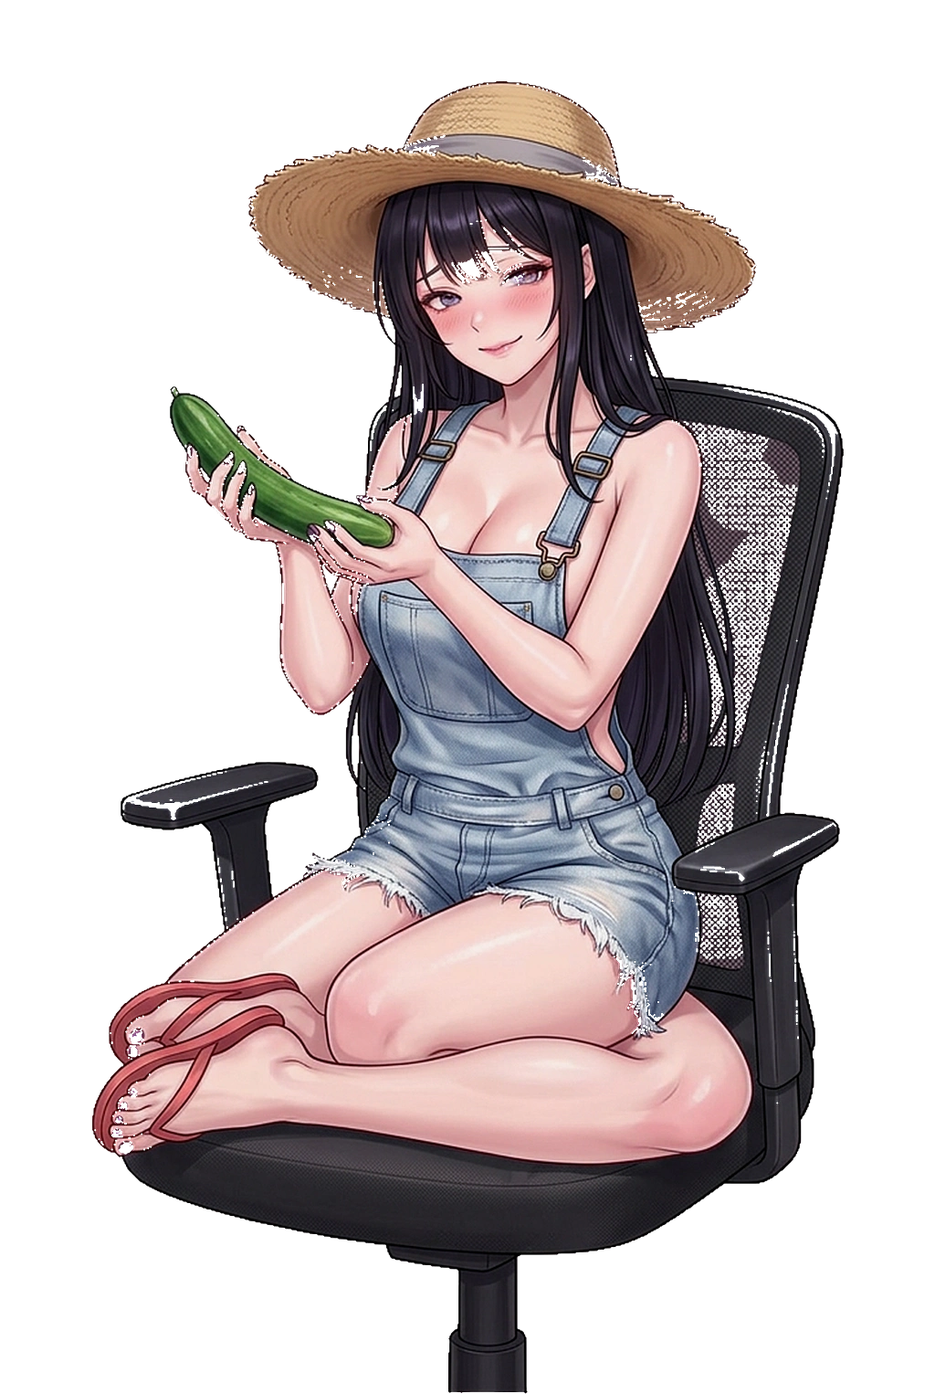
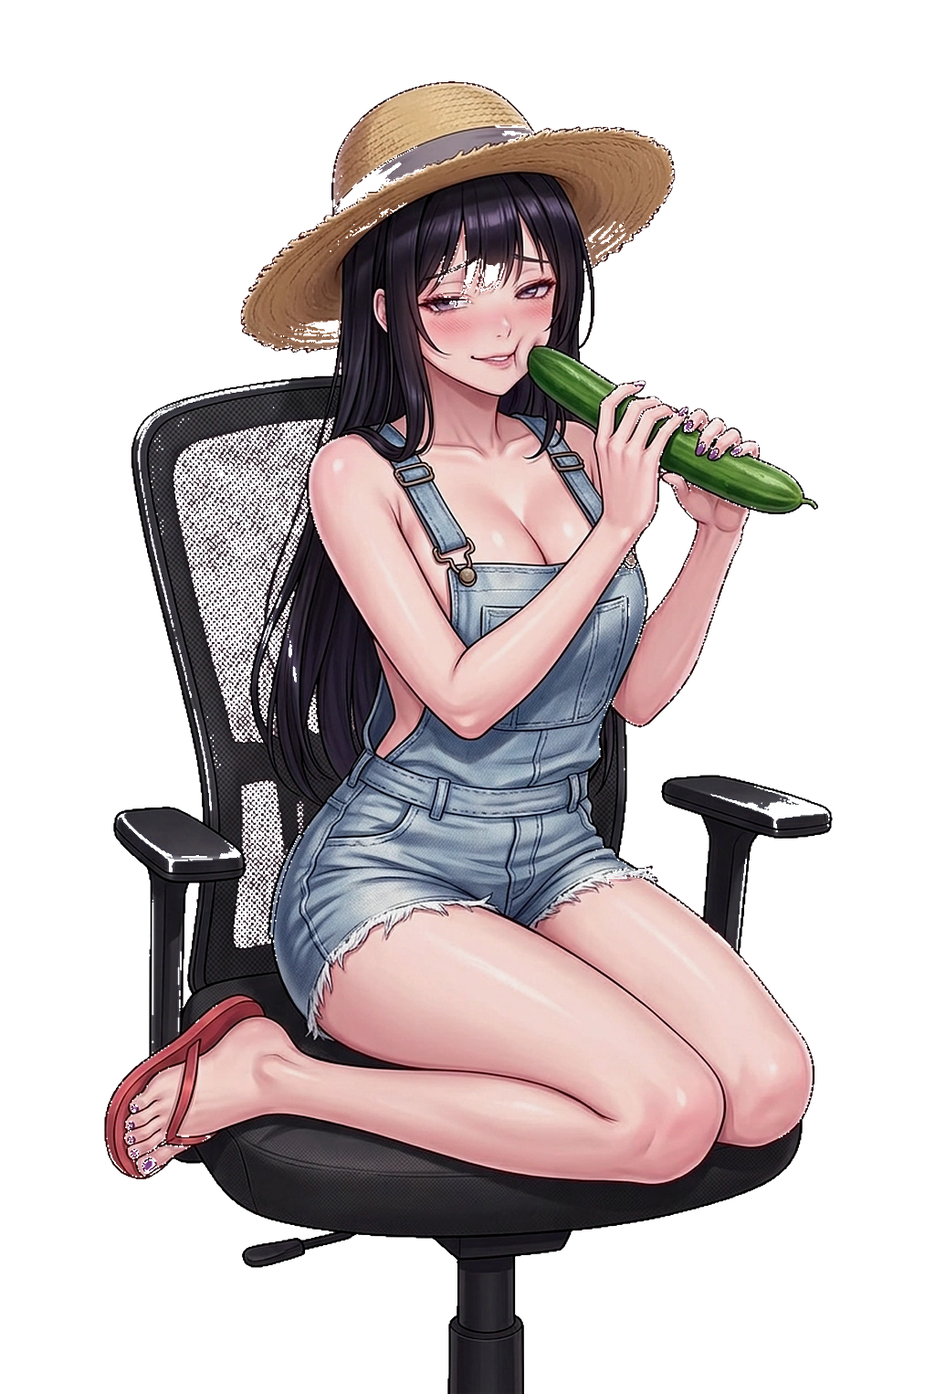
Fix day six cheek art and isolate breathing

diff --git a/src/heroine/HeroineRig.ts b/src/heroine/HeroineRig.ts
@@ -9,7 +9,7 @@ import {
   Sprite,
   Texture,
 } from 'pixi.js';
-import { Day6Motion } from './day6Motion.ts';
+import { day6BreathOffset } from './day6Breathing.ts';
 import { pickEmotionForContext } from '../domain/dialogue.ts';
 import type {
   HeroineEmotion,
@@ -113,10 +113,6 @@ export class HeroineRig {
   /** Day 5 (bikini stream) plates; null until all four ship. No flash plate exists for this day. */
   private readonly day5Textures: Texture[] | null = null;
   private readonly day6Textures: Texture[] | null = null;
-  private readonly day6Motion = new Day6Motion();
-  private day6LastTickMs = 0;
-  public onDay6GestureStart?: (stage: SubGoalStageIndex) => void;
-  public onDay6GestureEnd?: () => void;
   private readonly reducedMotion = typeof window !== 'undefined' && typeof window.matchMedia === 'function'
     ? window.matchMedia('(prefers-reduced-motion: reduce)') : null;
 
@@ -344,11 +340,6 @@ export class HeroineRig {
   public setWardrobeDay(day: WardrobeDay): void {
     if (this.wardrobeDay === day) return;
     this.wardrobeDay = day;
-    this.day6Motion.reset();
-    this.day6LastTickMs = performance.now();
-    this.bodyContainer.scale.set(1);
-    this.bodyContainer.rotation = 0;
-    this.bodyContainer.pivot.set(0, 0);
     // Day 3 (cosplay) reuses the Day 2 plate ladder until heroine_t3_s0..s4 are cut, so the rig
     // never shows a missing texture; the plate swap happens in one place, right here.
     this.stageTextures =
@@ -456,14 +447,9 @@ export class HeroineRig {
     forcedEmotion?: Exclude<HeroineEmotion, 'neutral'>,
   ): void {
     this.reactionCounter += 1;
-    if (this.wardrobeDay === 6) {
-      // Keep the approved linework intact. Taps still go to the economy, but cannot restart the pose.
-      if (!forcedEmotion && !this.reducedMotion?.matches && this.day6Motion.tap(this.currentStage)) {
-        this.day6LastTickMs = performance.now();
-        this.onDay6GestureStart?.(this.currentStage);
-      }
-      return;
-    }
+    // Village plates contain the chair and heroine in one texture: bouncing the whole mesh would
+    // animate the chair. Taps still reach the game; this day only uses the steady torso breath.
+    if (this.wardrobeDay === 6) return;
     const chosen =
       forcedEmotion ??
       pickEmotionForContext(this.boldnessLevel, this.currentStage, this.reactionCounter);
@@ -565,22 +551,10 @@ export class HeroineRig {
     return stageChanged || celebrate;
   }
 
-  public isDay6GestureActive(): boolean { return this.wardrobeDay === 6 && this.day6Motion.isActive; }
-
   public update(dtMs: number): void {
     const clampedDtMs = Math.min(50, Math.max(0, dtMs));
     const dt = clampedDtMs / 1000;
     this.elapsedSec += dt;
-    if (this.wardrobeDay === 6) {
-      // A reduced-motion preference ends an active gesture safely rather than trapping a pending goal.
-      const now = performance.now();
-      const realDt = this.day6LastTickMs ? Math.max(0, now - this.day6LastTickMs) : clampedDtMs;
-      this.day6LastTickMs = now;
-      const finished = this.reducedMotion?.matches && this.day6Motion.isActive
-        ? (this.day6Motion.reset(), true)
-        : this.day6Motion.update(realDt);
-      if (finished) this.onDay6GestureEnd?.();
-    }
 
     // 1. Spontaneous micro-expressions while streaming live!
     this.nextAmbientMicroExprMs -= clampedDtMs;
@@ -677,20 +651,8 @@ export class HeroineRig {
       this.wardrobeDay === 4 ? Math.sin(this.elapsedSec * 0.72 + this.ghostFloatSeed) * 1.9 : 0;
     const breathWave = Math.sin(this.elapsedSec * ((Math.PI * 2) / 3.6));
     if (this.wardrobeDay === 6) {
-      // Rigid transform preserves texture and drawing detail. Pivot at the desk contact line on s3.
-      const reduced = this.reducedMotion?.matches ?? false;
-      const breath = reduced ? 0 : breathWave;
-      const gesture = this.day6Motion.intensity;
-      const stage = this.day6Motion.gestureStage;
-      const amount = stage === 3 ? 0.008 : stage === 2 ? 0.012 : stage === 1 ? 0.016 : 0.014;
-      const pivotY = stage === 3 || this.currentStage === 3 ? 1489 : 1450;
-      this.bodyContainer.pivot.set(512, pivotY);
-      this.bodyContainer.scale.set(1 + gesture * amount, 1 + gesture * amount + breath * 0.0007);
-      // Tiny chair sway, plus pose-specific camera emphasis; a rigid motion cannot invent body parts.
-      const drift = reduced ? 0 : Math.sin(this.elapsedSec * 0.6) * 0.00065;
-      const tilt = stage === 1 ? 0.0012 : stage === 2 ? -0.001 : stage === 3 ? 0 : 0.0008;
-      this.bodyContainer.rotation = drift + gesture * tilt;
-      this.bodyContainer.position.set(512 + breath * 0.7, pivotY);
+      // Chair is part of the plate, so leave the entire container fixed.
+      this.bodyContainer.position.set(0, 0);
     } else {
       this.bodyContainer.y = breathWave * 2.2 + this.chairRecoilY + ghostFloat + yogaBreath;
       this.bodyContainer.x = shiverWave * 0.65;
@@ -713,7 +675,13 @@ export class HeroineRig {
     for (let i = 0; i < data.length; i += 2) {
       const rx = rest[i]!;
       const ry = rest[i + 1]!;
-      if (this.wardrobeDay === 6) { data[i] = rx; data[i + 1] = ry; continue; }
+      if (this.wardrobeDay === 6) {
+        const wave = this.reducedMotion?.matches ? 0 : breathWave;
+        const offset = day6BreathOffset(this.currentStage, rx, ry, wave);
+        data[i] = rx + offset.x;
+        data[i + 1] = ry + offset.y;
+        continue;
+      }
       const u = rx / W;
       const v = ry / H;
 
@@ -758,6 +726,16 @@ export class HeroineRig {
   }
 
   public getDebugSnapshot() {
+    const positions = this.mesh.geometry.getAttribute('aPosition').buffer.data as Float32Array;
+    let torsoMovement = 0;
+    let chairMovement = 0;
+    for (let i = 0; i < positions.length; i += 2) {
+      const x = this.restPositions[i]!;
+      const y = this.restPositions[i + 1]!;
+      const moved = Math.hypot(positions[i]! - x, positions[i + 1]! - y);
+      if (x < 300 || x > 760 || y > 900) chairMovement = Math.max(chairMovement, moved);
+      else torsoMovement = Math.max(torsoMovement, moved);
+    }
     return {
       subStage: this.currentStage,
       activeEmotion: this.activeEmotion,
@@ -766,11 +744,13 @@ export class HeroineRig {
       blinkAlpha: Number(this.blinkSprite.alpha.toFixed(3)),
       facePatchesHidden: this.facePatchesHidden,
       chestDisp: Number(this.chestDisp.toFixed(2)),
-      day6GestureActive: this.day6Motion.isActive,
-      day6GestureStage: this.day6Motion.gestureStage,
-      day6GestureProgress: this.day6Motion.progress,
-      day6GestureIntensity: this.day6Motion.intensity,
-      bodyScale: this.bodyContainer.scale.x,
+      bodyX: this.bodyContainer.x,
+      bodyY: this.bodyContainer.y,
+      bodyScaleX: this.bodyContainer.scale.x,
+      bodyScaleY: this.bodyContainer.scale.y,
+      bodyRotation: this.bodyContainer.rotation,
+      torsoMovement,
+      chairMovement,
     };
   }
 }

diff --git a/src/app/bootstrap.ts b/src/app/bootstrap.ts
@@ -168,25 +168,7 @@ export async function bootstrapApp(): Promise<void> {
   const wardrobeDayOf = (streamDay: number): 1 | 2 | 3 | 4 | 5 | 6 =>
     streamDay >= 6 ? 6 : streamDay >= 5 ? 5 : streamDay === 4 ? 4 : streamDay === 3 ? 3 : streamDay === 2 ? 2 : 1;
 
-  // While the short Day-6 gesture plays, keep the displayed plate and its copy together.
-  // Subscriber rewards still apply immediately; only the visual stage and its celebration wait.
-  let pendingDay6Stage: SubGoalStageIndex | null = null;
-  let pendingDay6Celebrations: SubGoalStageDef[] = [];
-  const holdDay6Stage = () => {
-    if (state.streamDay !== 6) {
-      pendingDay6Stage = null;
-      pendingDay6Celebrations = [];
-      return;
-    }
-    if (stage.rig.getWardrobeDay() === 6 && stage.rig.isDay6GestureActive() &&
-        state.displayedSubStage !== stage.rig.getStageIndex()) {
-      pendingDay6Stage = state.displayedSubStage;
-      state = { ...state, displayedSubStage: stage.rig.getStageIndex() };
-    }
-  };
-
   const syncAll = () => {
-    holdDay6Stage();
     const stats = computeStats(state);
     stage.setRingLampLevel(state.upgrades.ring_lamp ?? 0);
     stage.setHypeLevel(state.hype);
@@ -198,7 +180,7 @@ export async function bootstrapApp(): Promise<void> {
     // A closed day is an announcement, not a takeover: the finale card waits for the player's own
     // click (see UiController.openFinaleCard), so this only tells them the button exists. Without it
     // the HUD change is easy to miss while they are mid-click on her, and the day looks stuck.
-    if (state.subscribers >= dayFinaleSubs(state.streamDay) && finaleAnnouncedDay !== state.streamDay && pendingDay6Stage === null) {
+    if (state.subscribers >= dayFinaleSubs(state.streamDay) && finaleAnnouncedDay !== state.streamDay) {
       finaleAnnouncedDay = state.streamDay;
       ui.pushChatMessage({
         id: `finale_open_${state.streamDay}_${Date.now()}`,
@@ -228,12 +210,6 @@ export async function bootstrapApp(): Promise<void> {
 
   const celebrateSubGoalUnlocks = (unlockedStages: SubGoalStageDef[]) => {
     if (unlockedStages.length === 0) return;
-    if (state.streamDay === 6 && stage.rig.isDay6GestureActive()) {
-      pendingDay6Stage = unlockedStages[unlockedStages.length - 1]!.stage;
-      pendingDay6Celebrations.push(...unlockedStages);
-      holdDay6Stage();
-      return;
-    }
     lastCelebrationMs = performance.now();
     const latest = unlockedStages[unlockedStages.length - 1]!;
     stage.setSubStage(latest.stage, true, latest.removedItemLabel, latest.unlockEmotion);
@@ -256,31 +232,10 @@ export async function bootstrapApp(): Promise<void> {
     });
   };
 
-  stage.rig.onDay6GestureStart = (gestureStage) => {
-    const chat = [
-      'Камера ближе — чат внимательно рассматривает костюм :Pog:',
-      'Камера ближе, заявка чата принята :SubHype:',
-      'Чат ловит момент и делает клип :ClipIt:',
-      'Финальный кадр ближе — чат не отводит взгляд :Pog:',
-    ];
-    ui.pushChatMessage({ id: `village_pose_${Date.now()}`, author: 'StreamBot', color: '#c084fc', badge: 'MOD', text: chat[Math.min(gestureStage, 3)]! });
-  };
-  stage.rig.onDay6GestureEnd = () => {
-    if (state.streamDay !== 6) return;
-    const next = pendingDay6Stage;
-    const celebrations = pendingDay6Celebrations;
-    pendingDay6Stage = null;
-    pendingDay6Celebrations = [];
-    if (next !== null) state = { ...state, displayedSubStage: next };
-    if (celebrations.length) celebrateSubGoalUnlocks(celebrations);
-    syncAll();
-  };
-
   stage.onHeroineTap = (zone: TapZoneId) => {
     lastPlayerInteractionMs = performance.now();
     const outcome = applyTap(state, zone);
     state = outcome.state;
-    holdDay6Stage();
     const afterStats = computeStats(state);
     stage.rig.setBoldness(afterStats.boldness);
 
@@ -303,16 +258,14 @@ export async function bootstrapApp(): Promise<void> {
       ui.showSpeech(GHOST_BOO_LINES[state.totalTaps % GHOST_BOO_LINES.length]!);
       stage.spawnReactionCallout('♥ БУ! ЧАТ В КЛИПАХ!', true, state.totalTaps);
       ui.pushChatMessage(createZoneBurstMessage(zone, state.displayedSubStage, state.totalTaps, 3));
-    } else if (isFeverTrigger && state.streamDay !== 6) {
+    } else if (isFeverTrigger) {
       stage.rig.triggerArchStretch(afterStats.boldness >= 60 ? 'bold' : 'fluster');
       ui.showSpeech(pickFeverOverheatLine(zone, state.displayedSubStage, state.totalTaps, state.streamDay));
     } else if (state.streamDay >= 2 && state.totalTaps % 2 === 1) {
       // Day 2/3: every tap gets an answer from her, tuned to the stage she is actually on.
       ui.showSpeech(pickStageTapLine(zone, state.totalTaps, state.displayedSubStage, state.streamDay));
     } else {
-      ui.showSpeech(state.streamDay === 6 && pendingDay6Stage !== null
-        ? pickStageTapLine(zone, state.totalTaps, state.displayedSubStage, 6)
-        : outcome.line);
+      ui.showSpeech(outcome.line);
     }
 
     if (state.totalTaps % 2 === 0 || isFeverTrigger) {
@@ -439,7 +392,7 @@ export async function bootstrapApp(): Promise<void> {
     const res = selectDisplayedSubStage(state, targetStage);
     if (!res.ok) return;
     state = res.state;
-    if (!stage.rig.isDay6GestureActive()) stage.setSubStage(state.displayedSubStage, true);
+    stage.setSubStage(state.displayedSubStage, true);
     syncAll();
   };
 

diff --git a/src/domain/subGoals.ts b/src/domain/subGoals.ts
@@ -1097,7 +1097,7 @@ export const DAY5_FINALE_SUBS = 47000;
  * руках → половина огурца во рту → початок кукурузы и растаявшее масло на ногах) и за счёт того, насколько
  * близко её ступни подпускают линзу. Четыре ступени — четыре ЕГО утверждённых кадра:
  *   0     старт: глубоко в кресле, обе лямки на предплечьях, шляпа на один глаз, шлепки на ногах
- *   54000 огурец в двух руках на уровне билда, лямки застёгнуты, взгляд исподлобья
+ *   54000 огурец в двух руках у щеки, лямки застёгнуты, взгляд исподлобья
  *   61000 половина огурца во рту (зажат глубоко передними зубами), руки подняты и пусты, кресло видно
  *   68000 финал: обе ступни в кадре у самой линзы, полено масла на них, початок у груди в двух руках
  *
@@ -1159,10 +1159,10 @@ export const DAY6_SUB_GOAL_STAGES: readonly SubGoalStageDef[] = [
     subsRequired: 54000,
     shortGoalTitle: "Огурец в руках",
     outfitName:
-      "Тот же комбинезон, лямки застёгнуты обратно, огурец в двух руках на уровне билда",
+      "Тот же комбинезон, лямки застёгнуты, огурец в двух руках у щеки",
     removedItemLabel: "− Огурец в кадре!",
     storyDesc:
-      "54000 сабов: она застегнула обе лямки обратно (потому что с огурцом в руках так удобнее, а не потому что вы попросили) и держит его двумя руками ровно на уровне билда, который натянут так, что швы тянутся белыми штрихами. Бровь приподнята, взгляд в линзу с открытым смешком, и она честно спрашивает чат: какой огурец, что с ним делать. Никто в этом кадре ничего не снимает и ничего не теряет — в кадре появился предмет, и весь смысл в том, как она им распорядится~",
+      "54000 сабов: она застегнула обе лямки обратно (потому что с огурцом в руках так удобнее, а не потому что вы попросили) и держит его двумя руками и прижимает кончик к щеке. Комбинезон натянут так, что швы тянутся белыми штрихами. Взгляд в линзу, на губах улыбка, и она честно спрашивает чат: какой огурец, что с ним делать. Никто в этом кадре ничего не снимает и ничего не теряет — в кадре появился предмет, и весь смысл в том, как она им распорядится~",
     plateUrl: "/art/heroine_t6_s1.webp",
     incomeMultiplier: 2.0,
     viewersBonus: 560,
@@ -1200,7 +1200,7 @@ export const DAY6_SUB_GOAL_STAGES: readonly SubGoalStageDef[] = [
         author: "feet_connoisseur",
         color: "#f472b6",
         badge: "SUB",
-        text: "огурец в двух руках на уровне билда, шлепки на ногах, поза спокойная. я знаю, чем это кончится на 61000 :ClipIt: :monkaS:",
+        text: "огурец у щеки, комбинезон на месте, поза спокойная. я знаю, чем это кончится на 61000 :ClipIt: :monkaS:",
       },
     ],
   },

diff --git a/src/domain/wardrobe.ts b/src/domain/wardrobe.ts
@@ -217,9 +217,9 @@ export const WARDROBES: Record<
   // object in the frame (cucumber in hands → cucumber in the mouth → an ear of corn in butter) and how
   // close her feet get to the lens. Each row below is written off HIS approved plate, not off the idea:
   //   s0 t136  both straps off the shoulders, hat over one eye, flip-flops ON both feet
-  //   s1 t142  straps buckled back up, the cucumber held in both hands at bib level, flip-flops ON
+  //   s1 t141  straps buckled back up, the cucumber held in both hands against her cheek
   //   s2 t147  straps buckled, half a cucumber caught between her front teeth, ONE flip-flop hanging
-  //   s3 t208  straps off again, corn in both hands at her chest, both feet bare and in butter
+  //   s3 t207  straps off again, corn in both hands at her chest, both feet bare and in butter
   // The bib covers her stomach in all four, so `midriff` stays false the whole day — a line about a bare
   // belly would contradict the plate even though everything around it is bare.
   6: {
@@ -932,7 +932,7 @@ export const WARDROBE_SAFE_LINES: Record<
     ],
     1: [
       "Лямки я застегнула обратно, поэтому огурец держат обе руки, а не платье. Пятьдесят четыре тысячи, чат, и я его даже не надкусила~",
-      "Огурец в двух руках на уровне грудки билда, шлепки на ногах, взгляд у меня деловой. Дальше будет дороже, и это не угроза, это прайс.",
+      "Огурец в двух руках у щеки, взгляд у меня деловой. Дальше будет дороже, и это не угроза, это прайс.",
     ],
     2: [
       "Половина огурца у меня во рту, руки подняты и пустые — вот вам доказательство, что я его держу зубами, а не выдумала~",

diff --git a/tests/day6Breathing.test.ts b/tests/day6Breathing.test.ts
@@ -1,0 +1,24 @@
+import assert from 'node:assert/strict';
+import test from 'node:test';
+import { readFileSync } from 'node:fs';
+import { DAY6_BREATH_REGIONS, day6BreathOffset } from '../src/heroine/day6Breathing.ts';
+import { FACE_ANCHORS } from '../src/heroine/faceAnchors.ts';
+import type { SubGoalStageIndex } from '../src/domain/types.ts';
+
+test('day six breath is automatic and constrained to the torso, never the chair', () => {
+  for (const stage of [0,1,2,3] as SubGoalStageIndex[]) {
+    const r=DAY6_BREATH_REGIONS[stage]!;
+    assert.notDeepEqual(day6BreathOffset(stage,r.cx,r.cy,1),{x:0,y:0});
+    assert.deepEqual(day6BreathOffset(stage,r.cx,r.cy,0),{x:0,y:0});
+    // These zones encompass the chair frame/armrests and the lower seat and base.
+    for (const [x,y] of [[100,650],[250,900],[750,850],[900,1000],[500,1100],[500,1400]]) {
+      assert.deepEqual(day6BreathOffset(stage,x!,y!,1),{x:0,y:0},`stage ${stage}: ${x},${y}`);
+    }
+  }
+});
+
+test('the cucumber-in-hands plate comes from the approved cheek pose', () => {
+  const cutter=readFileSync(new URL('../scripts/process_day6_frames.py',import.meta.url),'utf8');
+  assert.match(cutter,/"heroine_t6_s1": "t6_t141_village_cucumber_toolong_I\.png"/);
+  assert.deepEqual(FACE_ANCHORS['heroine_t6_s1.webp'],{x:263,y:88,w:477,h:300});
+});

diff --git a/src/heroine/day6Breathing.ts b/src/heroine/day6Breathing.ts
@@ -1,0 +1,22 @@
+import type { SubGoalStageIndex } from '../domain/types.ts';
+
+/** Conservative torso-only bounds in plate coordinates. A full mesh cell outside each bound is left
+ * untouched, so interpolation cannot move the chair, arms, hat, legs or foreground desk. */
+export const DAY6_BREATH_REGIONS: ReadonlyArray<{ cx: number; cy: number; rx: number; ry: number }> = [
+  { cx: 520, cy: 640, rx: 80, ry: 90 },
+  { cx: 570, cy: 690, rx: 85, ry: 90 },
+  { cx: 520, cy: 640, rx: 85, ry: 90 },
+  { cx: 535, cy: 650, rx: 85, ry: 90 },
+];
+
+/** Displace only the interior of the bodice. Original textures are never resized or edited. */
+export function day6BreathOffset(stage: SubGoalStageIndex, x: number, y: number, wave: number): { x: number; y: number } {
+  if (wave === 0) return { x: 0, y: 0 };
+  const box = DAY6_BREATH_REGIONS[Math.min(stage, 3)]!;
+  const nx = (x - box.cx) / box.rx;
+  const ny = (y - box.cy) / box.ry;
+  const distance = nx * nx + ny * ny;
+  if (distance >= 1) return { x: 0, y: 0 };
+  const weight = (1 - distance) ** 2;
+  return { x: nx * weight * wave * 3, y: -weight * wave * 2 };
+}

diff --git a/src/heroine/faceAnchors.ts b/src/heroine/faceAnchors.ts
@@ -46,7 +46,7 @@ export const FACE_ANCHORS: Record<string, FaceAnchor> = {
   // them show her BACK — there is no face to patch at all. The boxes below are the measured head caps
   // (`measure_head_cap` in scripts/process_day5_frames.py), kept for the debug overlay only.
   "heroine_t6_s0.webp": { x: 240, y: 88, w: 535, h: 300 },
-  "heroine_t6_s1.webp": { x: 272, y: 88, w: 556, h: 300 },
+  "heroine_t6_s1.webp": { x: 263, y: 88, w: 477, h: 300 },
   "heroine_t6_s2.webp": { x: 174, y: 89, w: 693, h: 300 },
   "heroine_t6_s3.webp": { x: 274, y: 88, w: 480, h: 300 },
   "heroine_t5_s0.webp": { x: 284, y: 89, w: 463, h: 300 },

diff --git a/scripts/process_day6_frames.py b/scripts/process_day6_frames.py
@@ -62,8 +62,8 @@ QA = ROOT / ".qa-out"
 FRAMES: dict[str, str] = {
     # 0 — старт дня: глубоко в кресле, обе лямки спущены, шляпа на один глаз, шлепки на ногах
     "heroine_t6_s0": "t6_t136_village_finale_D.png",
-    # 1 (54000) — лямки застёгнуты, огурец в двух руках на уровне билда, взгляд исподлобья
-    "heroine_t6_s1": "t6_t142_village_cucumber_hands_J.png",
+    # 1 (54000) — лямки застёгнуты, огурец в двух руках касается щеки
+    "heroine_t6_s1": "t6_t141_village_cucumber_toolong_I.png",
     # 2 (61000) — половина огурца во рту, руки подняты и пусты, один шлепок висит на ноге
     "heroine_t6_s2": "t6_t147_village_cucumber_chair_E.png",
     # 3 (68000) — финал: ноги вытянуты в кадр, обе ступни в масле, початок у груди
